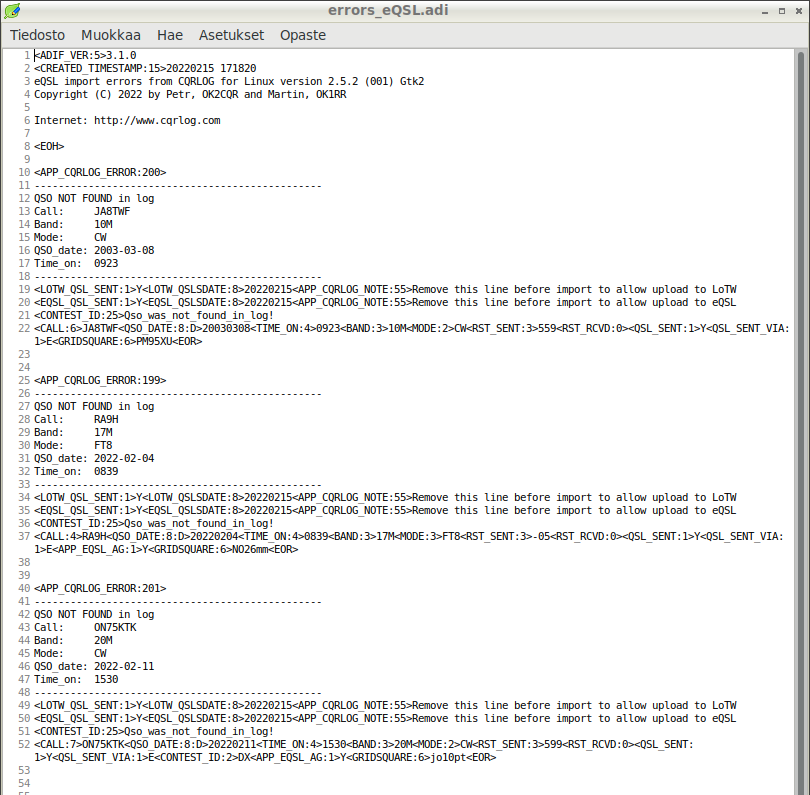
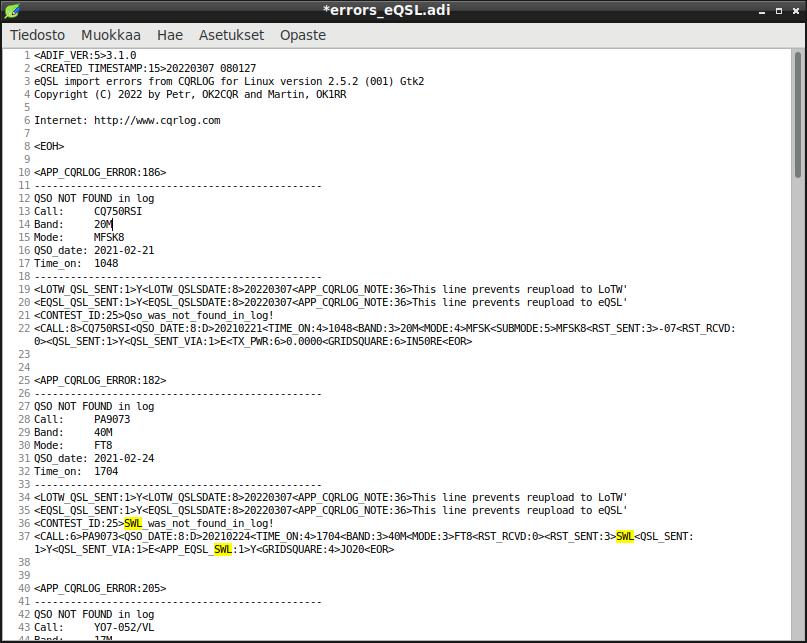
Fix for LoTW/eQSL download
- Fixed serious bug in CommonImport.
          That caused a lot of "Qso not in log" errors with eQSL download
          with SSB qsos.
          Sorry for that bug, but I have mostly CW and digital qsos and
          finding out that exception took some time for me.

          By adif standard SSB has submodes USB and LSB. How ever cqrlog
          uses SBB as mode and in that case submode may not override
          mode as cqrlog needs it to be just "SSB" otherwise comparing
          downloaded qsos with log qsos fails.

 - Fixed same SSB bug in remote ADIF mode
	  Same bug existed also in ADIF remote.

	  In ADIF import from adif file this USB/LSB is also set, but cqrlog
	  fixes this before writing qso to log database. This has been there
	  "for ages"

	  Then issue #492 affected only to ADIF remote and eQSL/LoTW download.

 - Modified eQSL download error file record content with SWLs

        This should make answering to SWL eQSL easier. They have interest
        in Ham radio. One day they might have Ham licence. Perhaps it is
        good for future of our hobby to give them some support.

        eQSL marks those SWL qsls with special tag. In case of tag "APP_EQSL_SWL"
         is found process changes error file:
        - CONTEST_ID tag is changed "SWL_not_found_in_log!" for easy finding
          those "qsos" with contest filter
        - RST tags are swapped. SWLs put their report to RST_SENT. We move it
[…]

Changed region(s): [[0.0, 0.0, 1.0, 1.0]]

diff --git a/help/qslimperr.html b/help/qslimperr.html
@@ -55,15 +55,18 @@ If you do not want to import all error qsos, or want to send a confirmation to e
 <p>Here is a sample eQSL error file opened with Leafpad editor (that shows line numbers at left side).
 LoTW error file looks very similar, but has some text more for every qso record.
 <br><br>When you edit file do not touch the header of the file. Lines from 1 to 8 where header ends with "EOH" (End Of Header).
-<br>You can remove qso records that you do not want to import to your log by removing all record's lines. For example here remove the JA8TWF qso means
- to remove lines 10 - 22.
+<br>You can remove qso records that you do not want to import to your log by removing all record's lines. For example here remove the CQ750RSI qso means
+ to remove lines 10 - 22. Adif tag APP_CQRLOG_ERROR:XXX specifies one error qso data lenght (to EOH tag) but it is actually not used for anything.
 </p><p>
-If you want to upload a confirmation for SWL to eQSL you remove one line. If we keep JA8TWF qso as example then removing line 20 will cause upload to eQSL
- at next time you execute eQSL upload/"Export only QSOs which has never been uploaded" 
-<br>How ever if it is a SWL confirmation you should edit logged qso after import and change perhaps RSTs to "SWL" and add comment "Thanks for reporting" or something similar to notify it is an SWL confirmation.
-<br><br>Same way, if you want to LoTW confirm an old paper log qso now added to cqrlog, removing line 19 (in this example JA8TWF qso) before importing error file to cqrlog will cause upload to LoTW
- on next LoTW upload/"Export only QSOs which has never been uploaded"
-</p> 
+<h5>SWL</h5>
+Cqrlog fixes error record if adif tag APP_EQSL_SWL is found.<br>
+CONTEST_ID is changed to talk about "SWL" instead of "Qso". Then all imported SWL cards from this error file can be found fast by selecting Contest filter "SWL_was_not_found_in_log!"
+<br>RST_SENT is swapped to RST_RCVD as SWLs do report how heard you in RST_SENT tag.
+<br>RST_SENT is replaced as "SWL". This is your "report" for swl.
+<br>SWLs should report who they heard you working with. They should use QSOMSG adif tag. This is swapped to tag COMMENT to show up in "Comment for qso" in cqrlog. Without this informaton you can concider that swl report is not valid.
+<br><br>If you want to upload a confirmation for SWL  after importing error file to cqrlog change "eQSL qsl sent" value with QSL list/File/Group edit from Y to N to cause upload to eQSL. This might be handy if you want to check several swl cards before uploading. Be careful not to touch "LoTW qsl sent" value as LoTW does not support SWLs. 
+<br><br>Same way, if you want to confirm an old paper log qso now added to cqrlog on next upload/"Export only QSOs which has never been uploaded"
+just change the eQSL and/or LoTW qsl set from value Y to N</p> 
 <p>With these properties handling of "not found qsos" should become a little bit easier</p>
  
 
